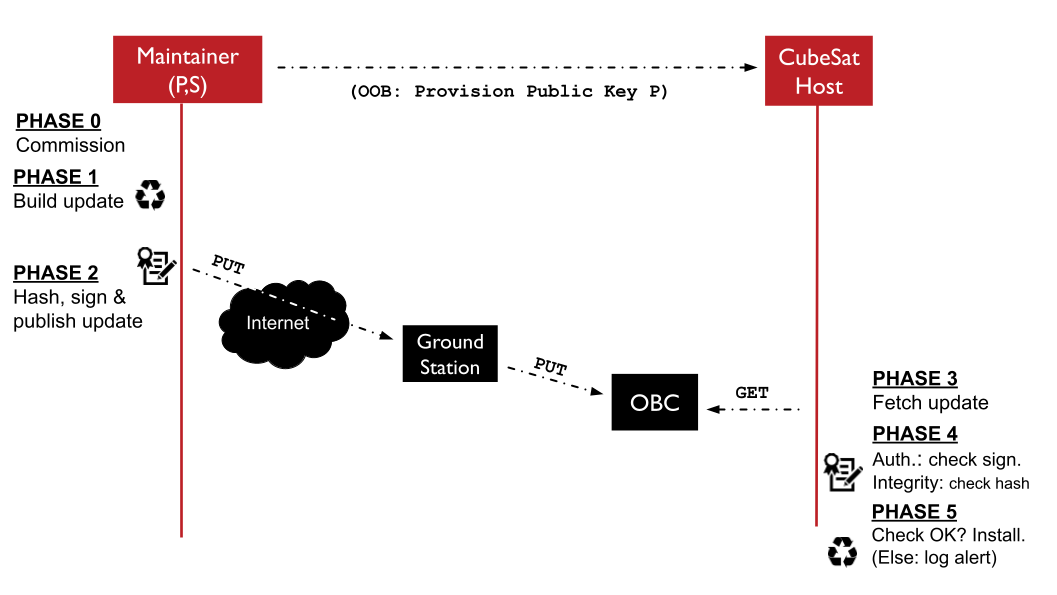
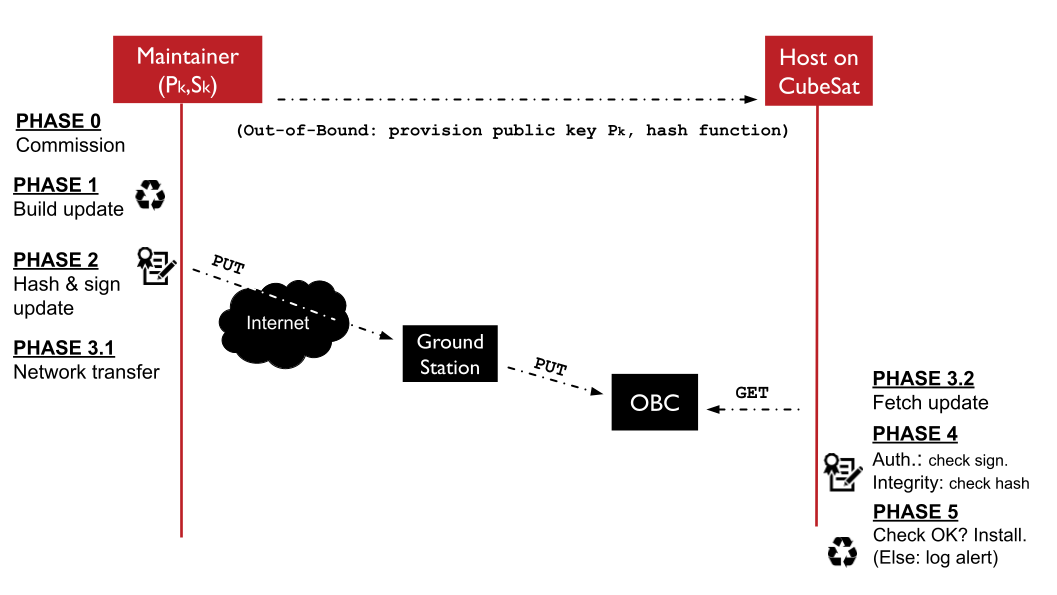
updated update process fig

diff --git a/architecture.tex b/architecture.tex
@@ -1,16 +1,21 @@
 \section{Cubedate: Secure Low-Power Continuous Deployment for CubeSat Software}
 \label{sec:low-power-orbital-communication-arch}
 
-The process we use for securing ThingSat software udpates (Cubedate) is decomposed in six phases shown \autoref{fig:phases}. During a preliminary phase (\textit{Phase 0}) the authorized maintainer for the CubeSat-hosted payload
+The process we use for securing ThingSat software udpates (Cubedate) is decomposed in six phases shown \autoref{fig:phases}. 
+
+\subsection{Basic software life-cycle phases}
+
+During a preliminary, pre-flight phase (\textit{Phase 0}) the authorized maintainer for the CubeSat-hosted payload
 produces and flashes the payload with commissioning material:
-the bootloader, the initial image, and authorized crypto material (a public key, and a crypographically strong hash function).
+a bootloader, the initial firmware, and authorized crypto material (a public key, and a crypographically strong hash function).
 Once the hosted payload is commissioned it can be sent to the CubeSat operator of installation in the CubeSat.
-Once the CubeSat in orbit, the hosted payload maintainer can trigger iterations through cycles of phases 1-5, whereby
-the authorized maintainer can build a new software update (\textit{Phase 1}), hash
-and sign the update (\textit{Phase 2}) and initiate a network transfer (PUT) to hosted payload via the ground station and the OBC. The hosted payload can
-then fetch the update from the OBC (\textit{Phase 3}), proceed to verify the signature and the hash (\textit{Phase 4}),
-and upon successful verification, the new software is installed and
-booted (\textit{Phase 5}), otherwise the update is dropped.
+
+
+Once the CubeSat in orbit, the hosted payload maintainer can trigger iterations through cycles of Phases 1-5, whereby
+the authorized maintainer can build a new software update (\textit{Phase 1}), hash the update
+and sign the hash (\textit{Phase 2}) then push a network transfer (PUT) towards the hosted payload via the ground station and the OBC. The next time it wakes up, the hosted payload can
+then ping and fetch (GET) the update from the OBC (\textit{Phase 3}), proceed to verify the signature and the hash (\textit{Phase 4}),
+and upon successful verification, install/boot the new software (\textit{Phase 5}), otherwise the update is dropped.
 
 \begin{figure}[t]
     \centering
@@ -19,8 +24,8 @@ booted (\textit{Phase 5}), otherwise the update is dropped.
     \label{fig:phases}
 \end{figure}
 
-
 \subsection{Requirements}
+
 \paragraph*{communication protocols}
 \paragraph*{software/firmware updates}
 \paragraph*{software/configuration updates requirements}
